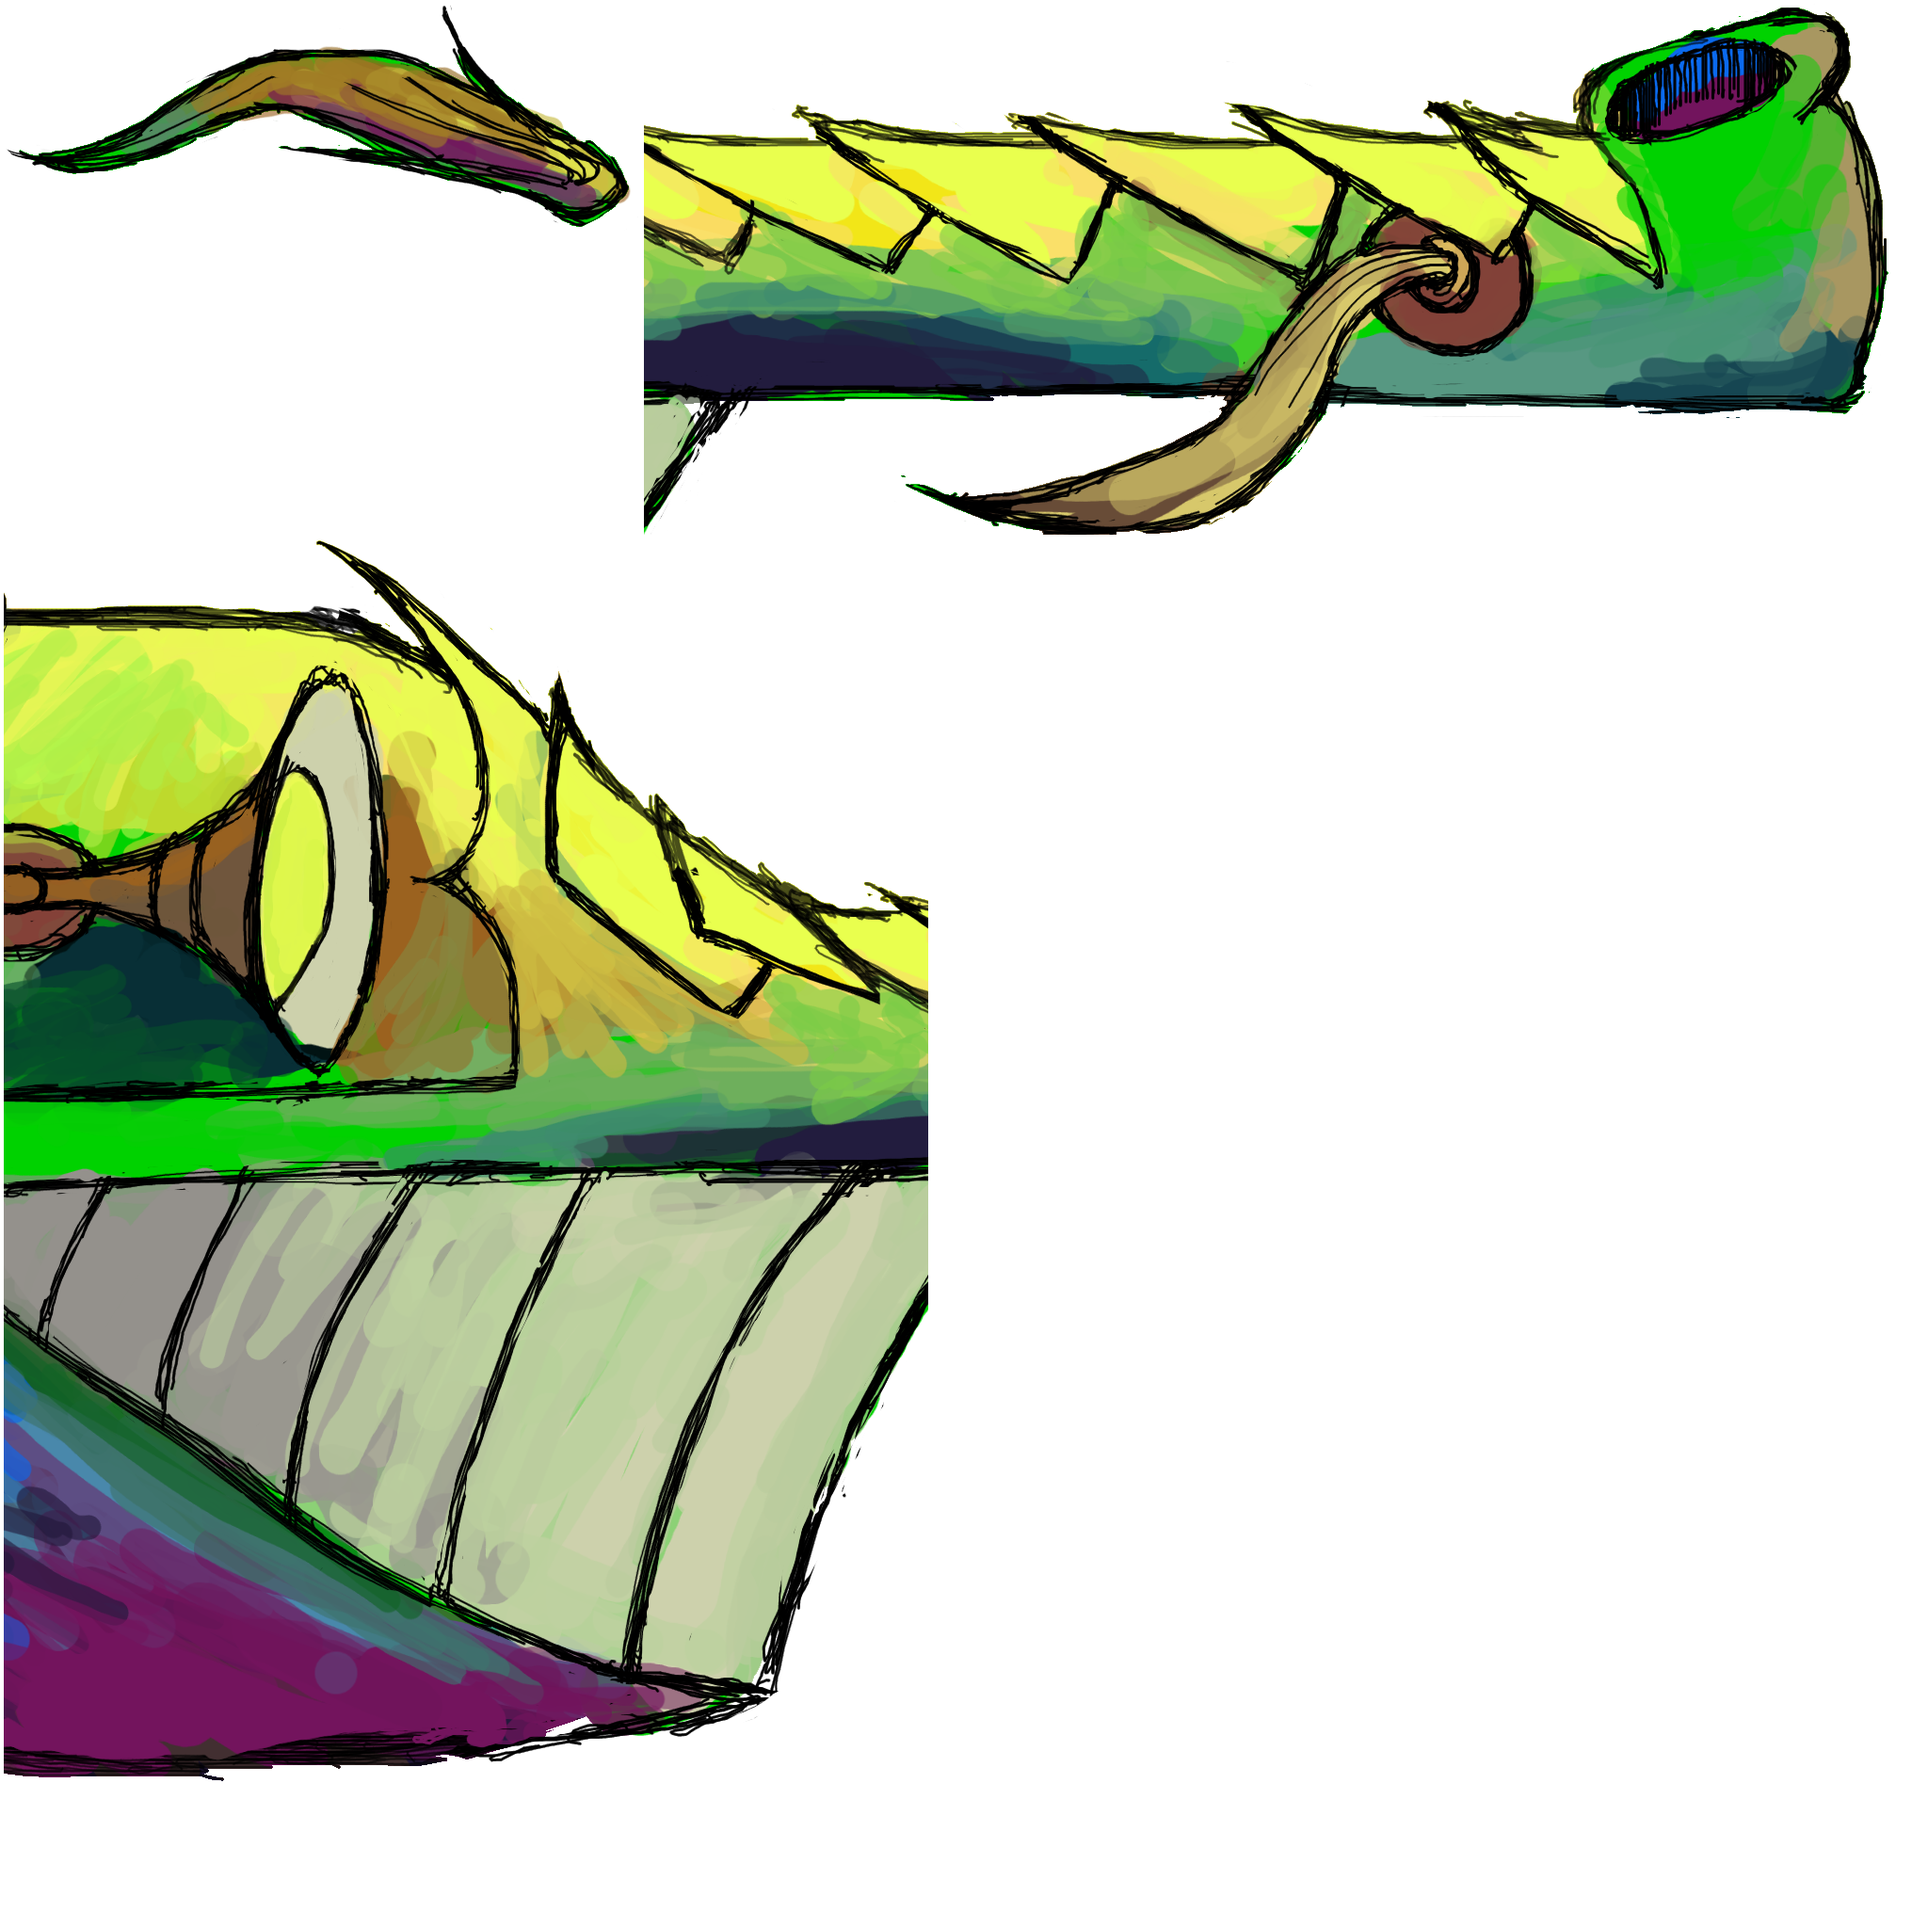
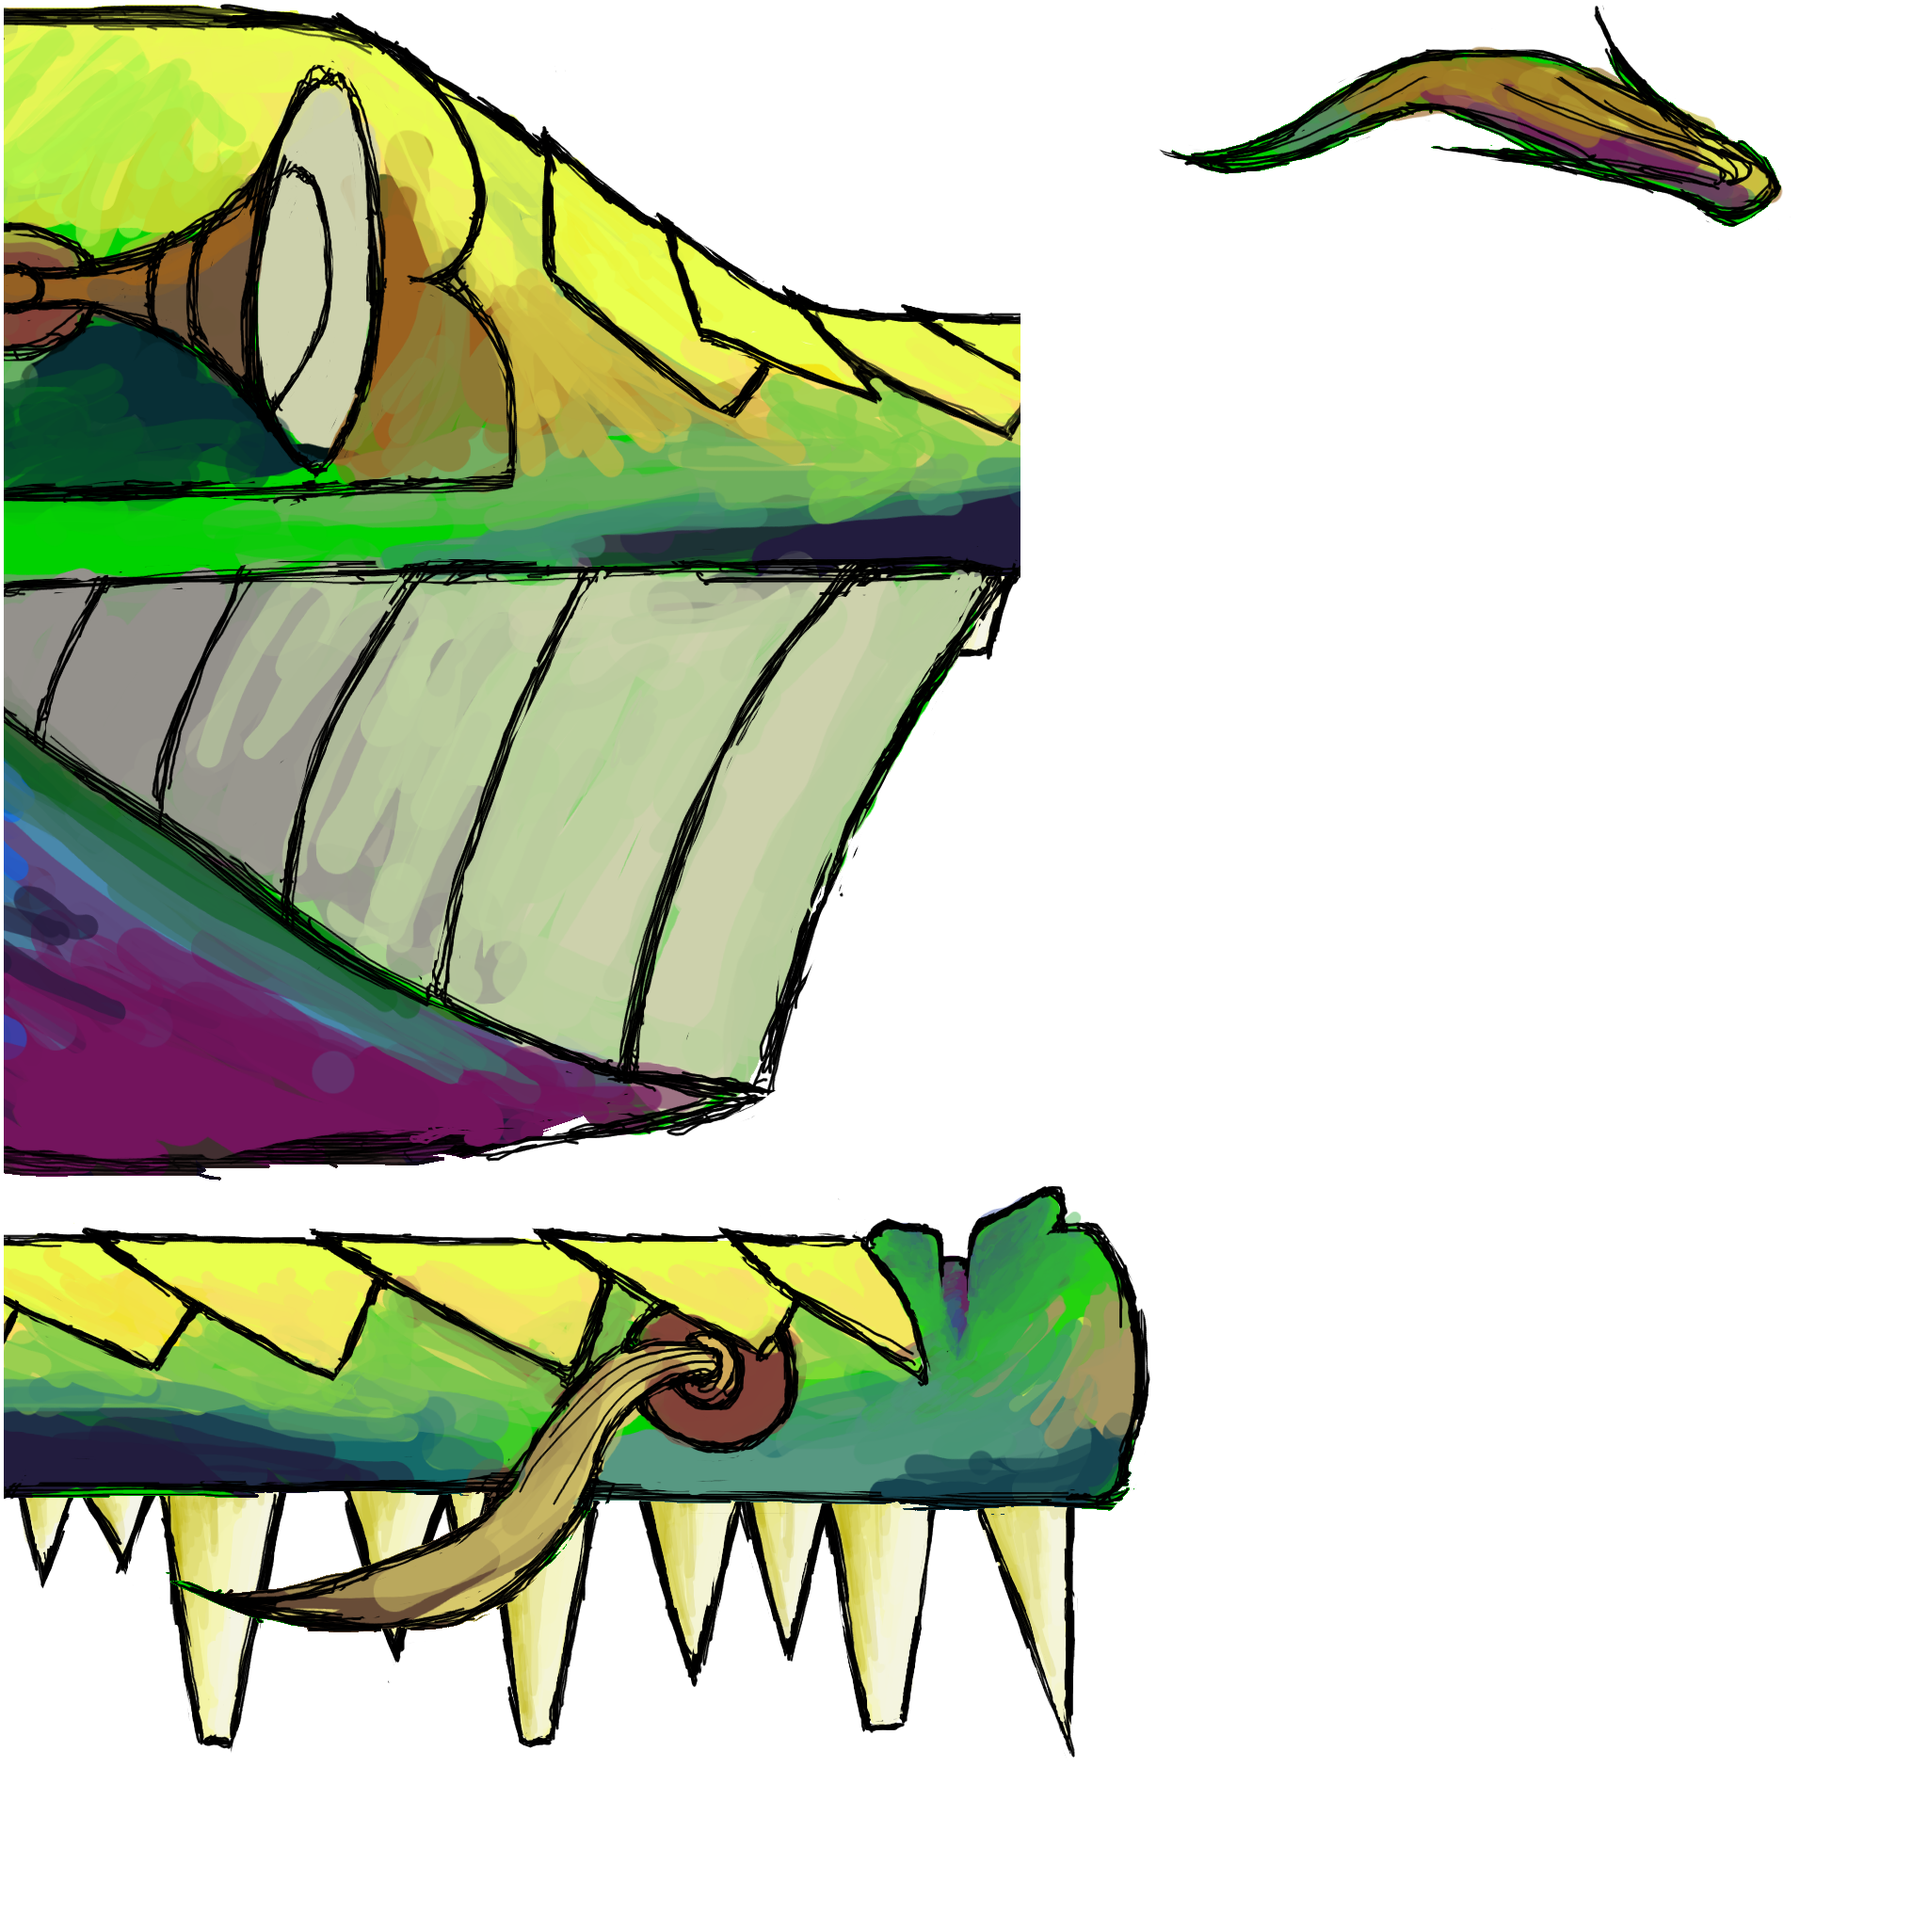
Head with teeth

diff --git a/werescrewed/src/com/blindtigergames/werescrewed/screens/DragonScreen.java b/werescrewed/src/com/blindtigergames/werescrewed/screens/DragonScreen.java
@@ -1117,21 +1117,21 @@ public class DragonScreen extends Screen {
 		//UPPER HEAD
 		Sprite s;
 		
-		Vector2 headPos = new Vector2(-3500,-1455 );
+		Vector2 headPos = new Vector2(-3500,-1455 ).add(125,41);
 		s = head_left.createSprite( "head_left" );
 		headSkeleton.addFGDecal( Sprite.scale( s, scale ), new Vector2().add( headPos ) );
 		headSkeleton.addFGDecal( 
 				Sprite.scale( head_right.createSprite( "head_right" ), scale ), 
-				new Vector2(4946,1029).add( headPos ) );
+				new Vector2(5146,758).add( headPos ) );//200,276
 		headSkeleton.addFGDecal( 
 				Sprite.scale( head_right.createSprite( "head_middle" ), scale ), 
-				new Vector2(2982,30).add( headPos ) );
+				new Vector2(2986,30).add( headPos ) );
 		addFGSkeleton( headSkeleton );
 		
 		//LOW HEAD/ JAW
-		Vector2 pos = new Vector2(-1375,-615);
+		Vector2 pos = new Vector2(-1420,-615);
 		s = head_jaw.createSprite( "dragonbottom_left" );
-		jaw_skeleton.addFGDecal( Sprite.scale( s, scale ), new Vector2().add( pos ) );//959,615
+		jaw_skeleton.addFGDecal( Sprite.scale( s, scale ), new Vector2().add( pos ).add(2,37) );//959,615
 		jaw_skeleton.addFGDecal( Sprite.scale( head_jaw.createSprite( "dragonbottom_right" ), scale ), 
 				new Vector2(s.getWidth( )*scale-8,16).add( pos ) );
 		addFGSkeleton( jaw_skeleton );
